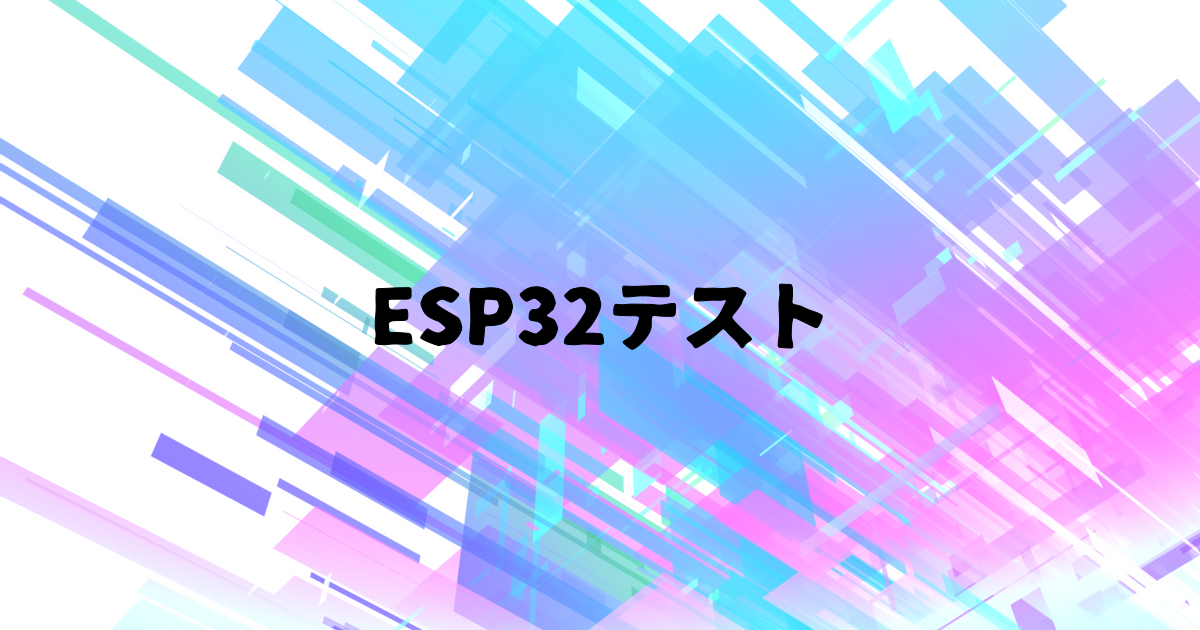
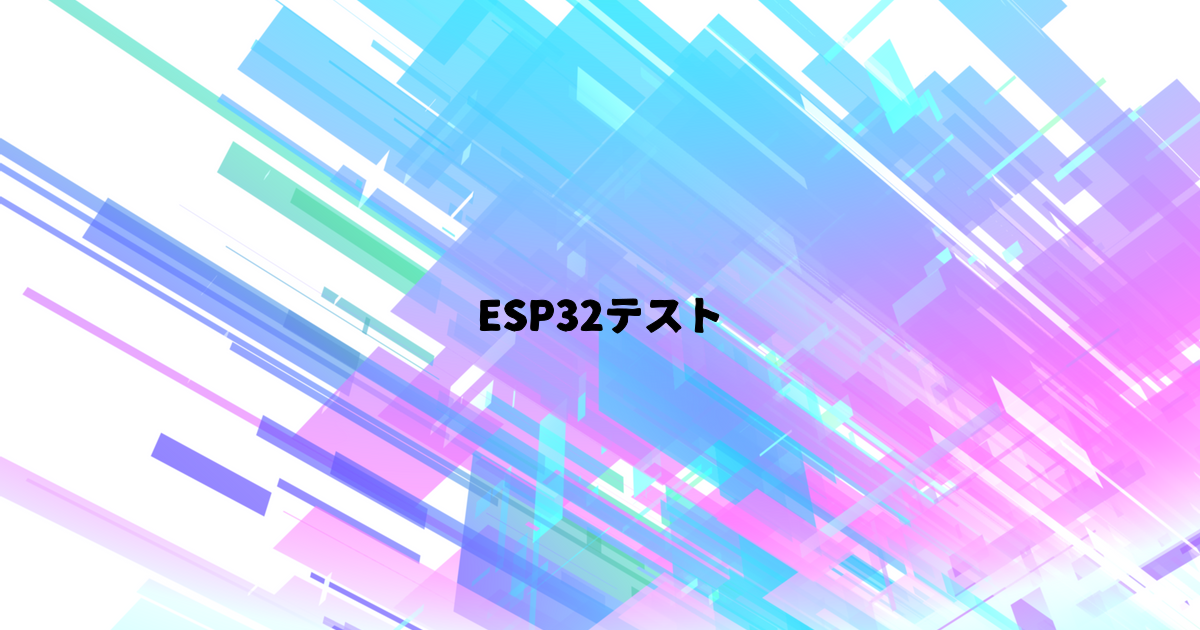
アナリティクスと修正2

Changed region(s): [[0.3083, 0.4524, 0.7092, 0.573]]

diff --git a/modules/ogp.js b/modules/ogp.js
@@ -4,10 +4,11 @@ import axios from 'axios'
 const textToSVG = TextToSVG.loadSync('./static/font.otf')
 const generateOGP = function (title, filename) {
     return new Promise((resolve, reject) => {
+        const f_size = title.length > 12 ? 45 : 75
         const textSvg = textToSVG.getSVG(title, {
             x: 0,
             y: 0,
-            fontSize: 75,
+            fontSize: f_size,
             anchor: 'top',
             attributes: { fill: 'rgba(31, 41, 55, var(--tw-text-opacity))', stroke: 'black' }
         })

diff --git a/components/Thecard.vue b/components/Thecard.vue
@@ -18,13 +18,13 @@
       <div class="flex">
         <p class="text-lg">{{ date }}</p>
         <div class="items-center justify-between">
-          <div
+          <span
             v-for="ele in content.category"
             :key="ele.id"
             class="mx-2 rounded-lg px-1 bg-gray-800 text-gray-100"
           >
             {{ ele.name }}
-          </div>
+          </span>
         </div>
       </div>
     </div>

diff --git a/tailwind.config.js b/tailwind.config.js
@@ -11,12 +11,6 @@ module.exports = {
     purgeLayersByDefault: true
   },
   theme: {
-    extend: {
-      fontFamily: {
-        sans: ['DM Sans', ...defaultTheme.fontFamily.sans],
-        mono: ['DM Mono', ...defaultTheme.fontFamily.mono]
-      },
-    },
     typography: theme => ({
       default: {
         css: {

diff --git a/nuxt.config.js b/nuxt.config.js
@@ -65,8 +65,8 @@ export default {
     // https://go.nuxtjs.dev/eslint
     // https://go.nuxtjs.dev/tailwindcss
     '@nuxtjs/tailwindcss',
+    '@nuxtjs/google-analytics',
     '@/modules/ogp.js',
-    '@nuxtjs/google-analytics'
     //   '@nuxtjs/google-fonts'
   ],
   modules: [
